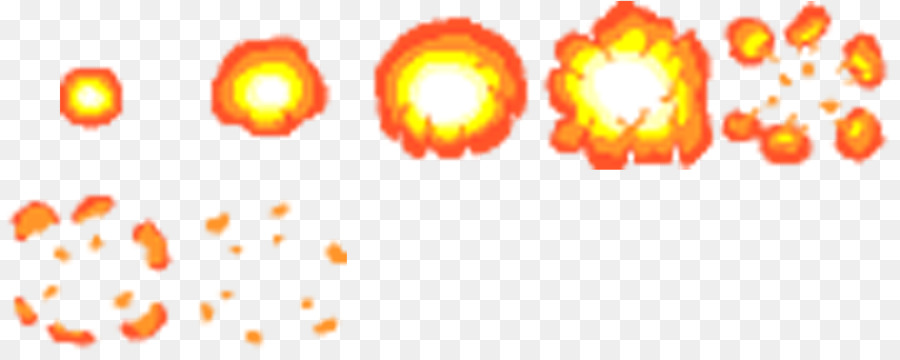
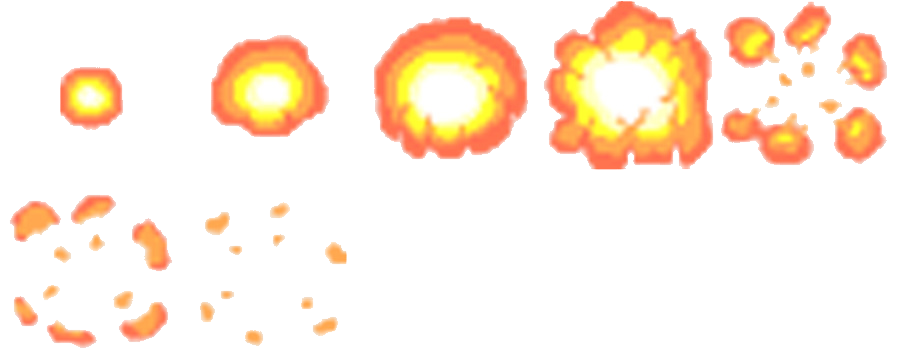
스프라이트 추가
그리고 바주카에 폭발애니메이션 추가

diff --git a/project/enemy.py b/project/enemy.py
@@ -8,6 +8,7 @@ import hero
 import enemy_genarate
 import main_state
 from bullet import Bullet
+from explosion import Explosion
 import game_framework
 from BehaviorTree import BehaviorTree, SelectorNode, SequenceNode, LeafNode
 
@@ -93,6 +94,8 @@ class Enemy:
                     for game_object in game_world.get_objects(1):
                         if ((game_object.x - self.x) ** 2 + (game_object.y - self.y) ** 2) < 100**2:
                             game_object.HP -= hero_bullet.damage
+                            explosion = Explosion(self.x, self.y)
+                            game_world.add_object(explosion, 0)
                 game_world.remove_object(hero_bullet)
         self.dir_to_hero = math.atan2(hero.find_y() - self.y, hero.find_x() - self.x) - math.pi / 2
 

diff --git a/project/explosion.py b/project/explosion.py
@@ -16,17 +16,17 @@ class Explosion:
     def __init__(self, x = 400, y = 300):
         if Explosion.image == None:
             self.image = load_image('explosion.png')
-        self.frame = 1
+        self.frame = 0
         self.x = x
         self.y = y
 
     def draw(self):
-        self.image.clip_draw(int(self.frame) * 180, 180, 180, 180, self.x, self.y)
+        self.image.clip_composite_draw(0 + int(self.frame)*180, 180, 180, 180, 0, '', self.x, self.y, 100, 100)
 
     def update(self):
         self.frame = (self.frame + FRAMES_PER_ACTION * ACTION_PER_TIME * game_framework.frame_time) % FRAMES_PER_ACTION
-
-        game_world.remove_object(self)
+        if self.frame > 7:
+            game_world.remove_object(self)
 
 
 

diff --git a/project/bullet.py b/project/bullet.py
@@ -32,7 +32,9 @@ class Bullet:
             self.bullet_speed = GUN_SPEED_PPS*2
 
     def draw(self):
-        if self. state == 0 or self.state == 1 or self.state == 2:
+        if self.state == 0:
+            pass
+        if self.state == 1 or self.state == 2:
             self.image.clip_composite_draw(980-20, 980-20, 40, 40, self.dir, '', self.x, self.y, 40, 40)
         elif self.state == 3:
             self.image.clip_composite_draw(900-50, 965-50, 100, 100, self.dir, '', self.x, self.y, 40, 40)
